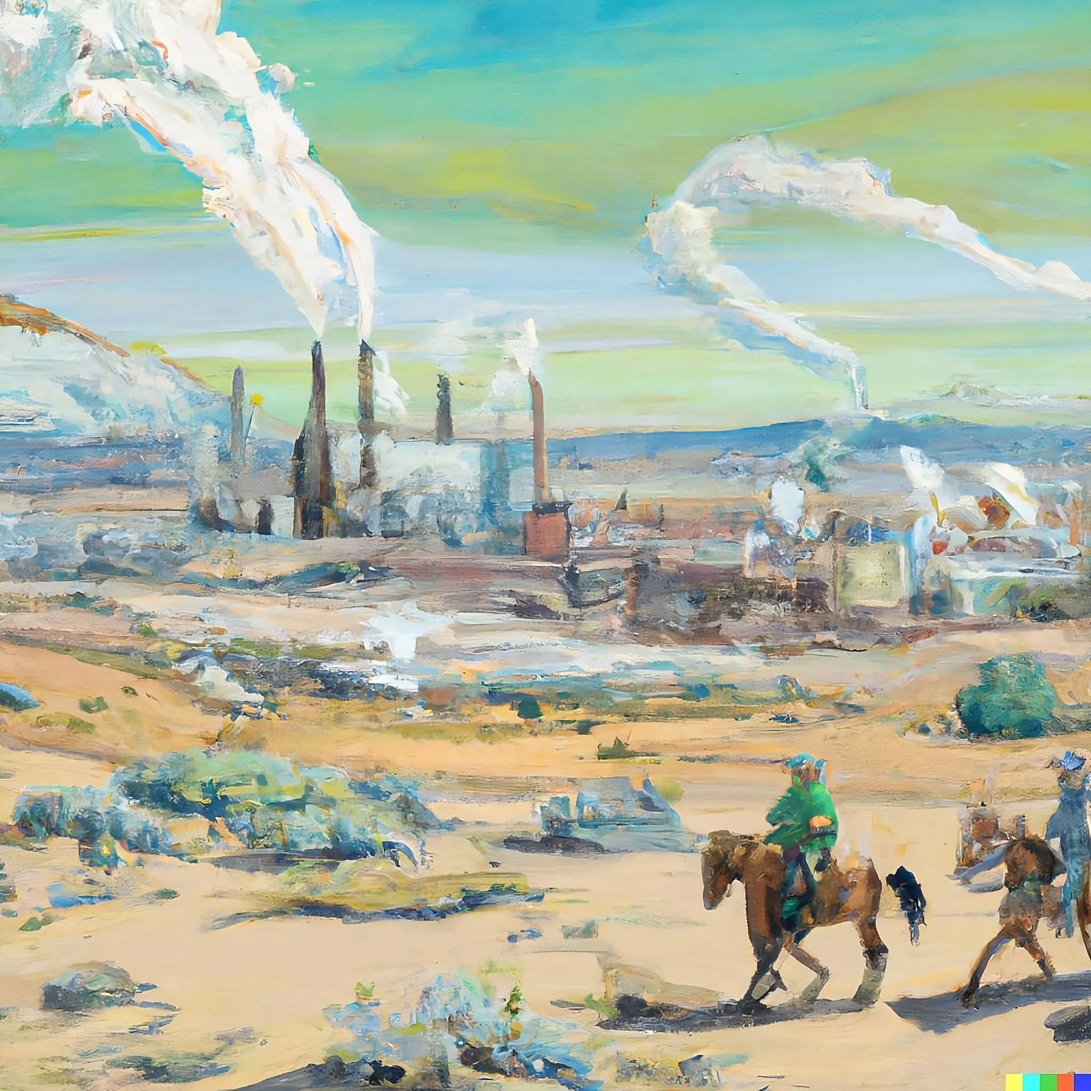
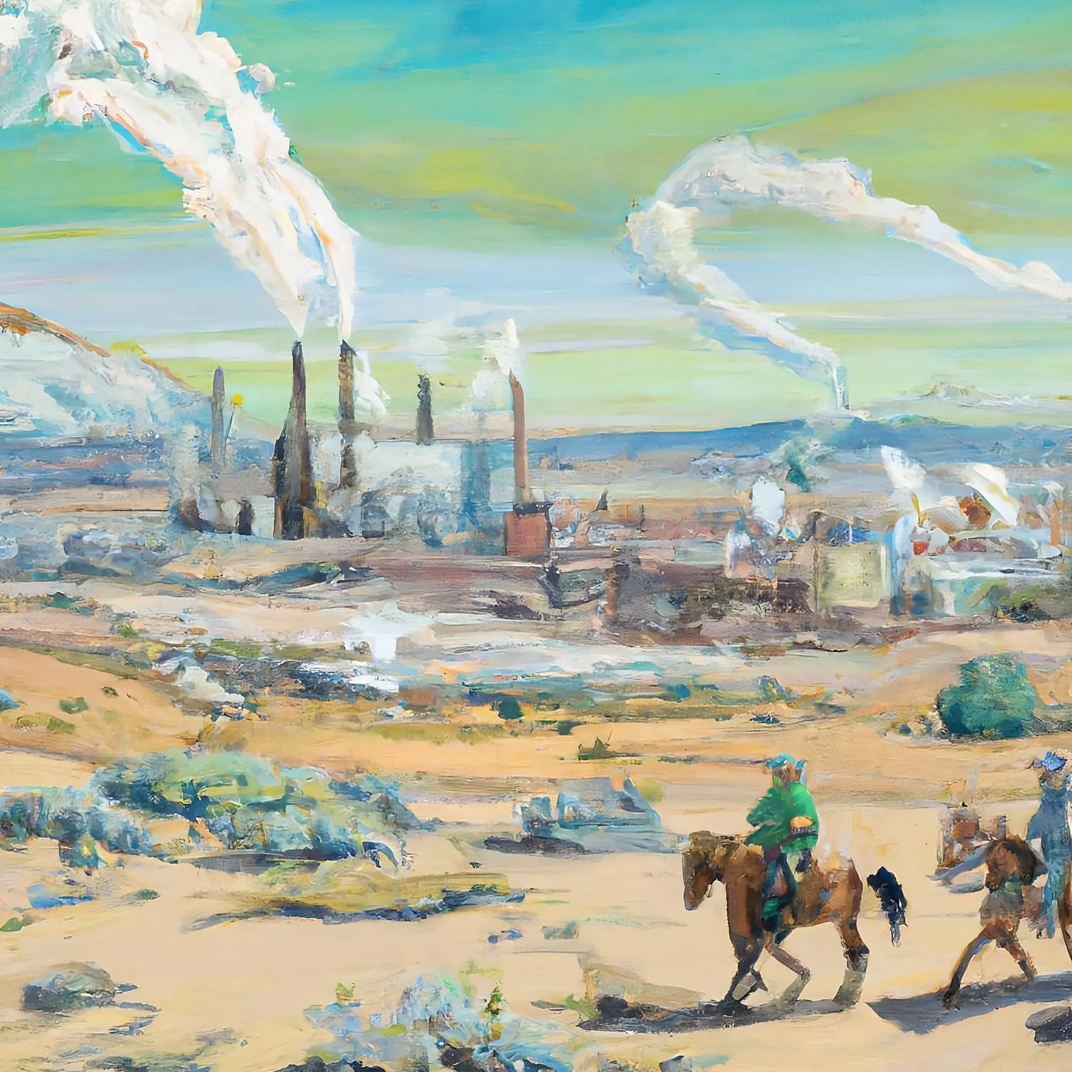
Add responsive images

diff --git a/index.html b/index.html
@@ -13,7 +13,11 @@
         <h1>
             Rancid Rickie's <br> Rodeo Men
         </h1>
-        <img src="static/img/art.webp" alt="">
+        <picture alt="art">
+            <source srcset="static/img/art-250.webp" media="(max-width: 799px)">
+            <source srcset="static/img/art-500.webp" media="(min-width: 800px)">
+            <img src="static/img/art-1000.webp" alt="">
+        </picture>
         <h2>December 31, 2022.<br> 11:59:59 PM </h2>    
     </div>
     </body>
